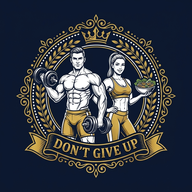
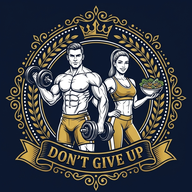
Add files via upload

diff --git a/app_completo.html b/app_completo.html
@@ -27,53 +27,53 @@
     
     <!-- Hero com Logo Oficial e Slogan -->
     <div class="pt-2 sm:pt-6 text-center">
-      <div class="relative inline-block mb-3">
-        <img src="./logo_emblema.jpg" alt="Logo FitApp Don't Give Up" 
-             class="w-48 h-48 sm:w-60 sm:h-60 md:w-72 md:h-72 mx-auto rounded-3xl md:rounded-[36px] shadow-2xl border-3 border-amber-400/50 object-cover">
-        <span class="absolute -bottom-2.5 left-1/2 -translate-x-1/2 bg-amber-500 text-slate-950 text-xs sm:text-sm font-black px-4 py-1 rounded-full shadow-lg tracking-wider uppercase whitespace-nowrap">
+      <div class="relative inline-block mb-4">
+        <img src="./logo_emblema.jpg?v=2" alt="Logo FitApp Don't Give Up" 
+             class="w-56 h-56 sm:w-72 sm:h-72 md:w-88 md:h-88 mx-auto rounded-3xl md:rounded-[40px] shadow-2xl border-4 border-amber-400/60 object-cover">
+        <span class="absolute -bottom-3 left-1/2 -translate-x-1/2 bg-amber-500 text-slate-950 text-xs sm:text-base font-black px-5 py-1.5 rounded-full shadow-xl tracking-wider uppercase whitespace-nowrap">
           Don't Give Up
         </span>
       </div>
 
-      <h1 class="text-2xl sm:text-3xl md:text-4xl font-black text-white tracking-tight mt-4">Treino & Nutrição</h1>
-      <p class="text-amber-400/90 text-xs sm:text-sm md:text-base font-extrabold tracking-widest mt-1.5 uppercase">Força, Disciplina e Combustível</p>
-      <p class="text-slate-300 text-xs sm:text-sm md:text-base mt-2 max-w-md mx-auto leading-relaxed">
+      <h1 class="text-2xl sm:text-4xl md:text-5xl font-black text-white tracking-tight mt-4">Treino & Nutrição</h1>
+      <p class="text-amber-400 text-sm sm:text-base md:text-lg font-black tracking-widest mt-1.5 uppercase">Força, Disciplina e Combustível</p>
+      <p class="text-slate-300 text-xs sm:text-sm md:text-base mt-2 max-w-lg mx-auto leading-relaxed">
         "O corpo é o resultado do treino. A comida é o combustível para vencer."
       </p>
     </div>
 
     <!-- Módulos de Entrada -->
-    <div class="space-y-4 sm:space-y-5 my-6 sm:my-8">
+    <div class="space-y-4 sm:space-y-6 my-6 sm:my-8">
       <button type="button" onclick="navegarPara('telaTreino')"
-              class="w-full text-left bg-gradient-to-br from-[#18284d] to-[#111c38] hover:from-[#213768] hover:to-[#162347] text-white p-5 sm:p-6 md:p-7 rounded-3xl md:rounded-[32px] shadow-2xl border border-blue-500/40 active:scale-98 transition-all flex items-center justify-between group">
-        <div class="flex items-center gap-4 sm:gap-5">
+              class="w-full text-left bg-gradient-to-br from-[#18284d] to-[#111c38] hover:from-[#213768] hover:to-[#162347] text-white p-5 sm:p-7 md:p-8 rounded-3xl md:rounded-[36px] shadow-2xl border-2 border-blue-500/40 active:scale-98 transition-all flex items-center justify-between group">
+        <div class="flex items-center gap-4 sm:gap-6">
           <div class="relative flex-shrink-0">
-            <img src="./icone_treino.jpg" alt="Controle de Treinos" 
-                 class="w-20 h-20 sm:w-24 sm:h-24 md:w-28 md:h-28 rounded-2xl md:rounded-3xl object-cover border-2 md:border-3 border-amber-400/70 shadow-2xl group-hover:scale-105 transition-transform">
-            <span class="absolute -bottom-1 -right-1 bg-blue-600 text-white text-xs sm:text-sm w-7 h-7 sm:w-8 sm:h-8 rounded-full flex items-center justify-center border-2 border-slate-900 shadow-md">🏋</span>
+            <img src="./icone_treino.jpg?v=2" alt="Controle de Treinos" 
+                 class="w-20 h-20 sm:w-28 sm:h-28 md:w-32 md:h-32 rounded-2xl md:rounded-3xl object-cover border-2 md:border-4 border-amber-400/80 shadow-2xl group-hover:scale-105 transition-transform">
+            <span class="absolute -bottom-1 -right-1 bg-blue-600 text-white text-xs sm:text-sm w-8 h-8 sm:w-9 sm:h-9 rounded-full flex items-center justify-center border-2 border-slate-900 shadow-md">🏋</span>
           </div>
           <div>
-            <h2 class="text-lg sm:text-xl md:text-2xl font-black text-white">Controle de Treinos</h2>
+            <h2 class="text-lg sm:text-2xl md:text-3xl font-black text-white">Controle de Treinos</h2>
             <p class="text-xs sm:text-sm md:text-base text-blue-200/90 mt-1">Treino A normal, B ondulatório, cronômetro e cargas</p>
           </div>
         </div>
-        <span class="text-2xl sm:text-3xl md:text-4xl text-blue-400 font-light pl-3 group-hover:translate-x-1.5 transition-transform">➔</span>
+        <span class="text-2xl sm:text-4xl text-blue-400 font-light pl-3 group-hover:translate-x-2 transition-transform">➔</span>
       </button>
 
       <button type="button" onclick="navegarPara('telaNutricao')"
-              class="w-full text-left bg-gradient-to-br from-[#0e2a22] to-[#111c38] hover:from-[#133a2f] hover:to-[#162347] text-white p-5 sm:p-6 md:p-7 rounded-3xl md:rounded-[32px] shadow-2xl border border-emerald-500/40 active:scale-98 transition-all flex items-center justify-between group">
-        <div class="flex items-center gap-4 sm:gap-5">
+              class="w-full text-left bg-gradient-to-br from-[#0e2a22] to-[#111c38] hover:from-[#133a2f] hover:to-[#162347] text-white p-5 sm:p-7 md:p-8 rounded-3xl md:rounded-[36px] shadow-2xl border-2 border-emerald-500/40 active:scale-98 transition-all flex items-center justify-between group">
+        <div class="flex items-center gap-4 sm:gap-6">
           <div class="relative flex-shrink-0">
-            <img src="./icone_nutricao.jpg" alt="Plano de Nutrição" 
-                 class="w-20 h-20 sm:w-24 sm:h-24 md:w-28 md:h-28 rounded-2xl md:rounded-3xl object-cover border-2 md:border-3 border-amber-400/70 shadow-2xl group-hover:scale-105 transition-transform">
-            <span class="absolute -bottom-1 -right-1 bg-emerald-600 text-white text-xs sm:text-sm w-7 h-7 sm:w-8 sm:h-8 rounded-full flex items-center justify-center border-2 border-slate-900 shadow-md">🥗</span>
+            <img src="./icone_nutricao.jpg?v=2" alt="Plano de Nutrição" 
+                 class="w-20 h-20 sm:w-28 sm:h-28 md:w-32 md:h-32 rounded-2xl md:rounded-3xl object-cover border-2 md:border-4 border-amber-400/80 shadow-2xl group-hover:scale-105 transition-transform">
+            <span class="absolute -bottom-1 -right-1 bg-emerald-600 text-white text-xs sm:text-sm w-8 h-8 sm:w-9 sm:h-9 rounded-full flex items-center justify-center border-2 border-slate-900 shadow-md">🥗</span>
           </div>
           <div>
-            <h2 class="text-lg sm:text-xl md:text-2xl font-black text-white">Plano de Nutrição</h2>
+            <h2 class="text-lg sm:text-2xl md:text-3xl font-black text-white">Plano de Nutrição</h2>
             <p class="text-xs sm:text-sm md:text-base text-emerald-200/90 mt-1">Diário alimentar, hidratação e refeições</p>
           </div>
         </div>
-        <span class="text-2xl sm:text-3xl md:text-4xl text-emerald-400 font-light pl-3 group-hover:translate-x-1.5 transition-transform">➔</span>
+        <span class="text-2xl sm:text-4xl text-emerald-400 font-light pl-3 group-hover:translate-x-2 transition-transform">➔</span>
       </button>
     </div>
 
@@ -99,7 +99,7 @@
           ⬅ Início
         </button>
         <div class="flex items-center gap-2">
-          <img src="./icone_treino.jpg" alt="Treino" class="w-12 h-12 sm:w-14 sm:h-14 rounded-2xl border-2 border-amber-400/60 object-cover shadow-lg">
+          <img src="./icone_treino.jpg?v=2" alt="Treino" class="w-12 h-12 sm:w-14 sm:h-14 rounded-2xl border-2 border-amber-400/60 object-cover shadow-lg">
           <div>
             <h1 class="text-lg md:text-xl font-black text-white leading-tight">Controle de Treinos</h1>
             <span class="text-[10px] text-amber-400 font-bold tracking-wider">DON'T GIVE UP</span>
@@ -219,7 +219,7 @@
         ⬅ Início
       </button>
       <div class="flex items-center gap-3">
-        <img src="./icone_nutricao.jpg" alt="Nutrição" class="w-12 h-12 sm:w-14 sm:h-14 rounded-2xl border-2 border-emerald-400/60 object-cover shadow-lg">
+        <img src="./icone_nutricao.jpg?v=2" alt="Nutrição" class="w-12 h-12 sm:w-14 sm:h-14 rounded-2xl border-2 border-emerald-400/60 object-cover shadow-lg">
         <div>
           <h1 class="text-lg sm:text-xl font-bold text-white">Plano de Nutrição</h1>
           <span class="text-[10px] sm:text-xs text-emerald-400 font-bold tracking-wider">COMBUSTÍVEL DIÁRIO</span>
@@ -612,6 +612,13 @@
     document.getElementById('dataHoje').textContent = `Data: ${hoje.toLocaleDateString('pt-BR')}`;
     carregarLocal();
     renderizarExercicios();
+
+    // Auto-atualização de cache para novas versões
+    if ('serviceWorker' in navigator) {
+      navigator.serviceWorker.register('./sw.js').then((reg) => {
+        reg.update();
+      });
+    }
   </script>
 </body>
 </html>

diff --git a/index.html b/index.html
@@ -27,53 +27,53 @@
     
     <!-- Hero com Logo Oficial e Slogan -->
     <div class="pt-2 sm:pt-6 text-center">
-      <div class="relative inline-block mb-3">
-        <img src="./logo_emblema.jpg" alt="Logo FitApp Don't Give Up" 
-             class="w-48 h-48 sm:w-60 sm:h-60 md:w-72 md:h-72 mx-auto rounded-3xl md:rounded-[36px] shadow-2xl border-3 border-amber-400/50 object-cover">
-        <span class="absolute -bottom-2.5 left-1/2 -translate-x-1/2 bg-amber-500 text-slate-950 text-xs sm:text-sm font-black px-4 py-1 rounded-full shadow-lg tracking-wider uppercase whitespace-nowrap">
+      <div class="relative inline-block mb-4">
+        <img src="./logo_emblema.jpg?v=2" alt="Logo FitApp Don't Give Up" 
+             class="w-56 h-56 sm:w-72 sm:h-72 md:w-88 md:h-88 mx-auto rounded-3xl md:rounded-[40px] shadow-2xl border-4 border-amber-400/60 object-cover">
+        <span class="absolute -bottom-3 left-1/2 -translate-x-1/2 bg-amber-500 text-slate-950 text-xs sm:text-base font-black px-5 py-1.5 rounded-full shadow-xl tracking-wider uppercase whitespace-nowrap">
           Don't Give Up
         </span>
       </div>
 
-      <h1 class="text-2xl sm:text-3xl md:text-4xl font-black text-white tracking-tight mt-4">Treino & Nutrição</h1>
-      <p class="text-amber-400/90 text-xs sm:text-sm md:text-base font-extrabold tracking-widest mt-1.5 uppercase">Força, Disciplina e Combustível</p>
-      <p class="text-slate-300 text-xs sm:text-sm md:text-base mt-2 max-w-md mx-auto leading-relaxed">
+      <h1 class="text-2xl sm:text-4xl md:text-5xl font-black text-white tracking-tight mt-4">Treino & Nutrição</h1>
+      <p class="text-amber-400 text-sm sm:text-base md:text-lg font-black tracking-widest mt-1.5 uppercase">Força, Disciplina e Combustível</p>
+      <p class="text-slate-300 text-xs sm:text-sm md:text-base mt-2 max-w-lg mx-auto leading-relaxed">
         "O corpo é o resultado do treino. A comida é o combustível para vencer."
       </p>
     </div>
 
     <!-- Módulos de Entrada -->
-    <div class="space-y-4 sm:space-y-5 my-6 sm:my-8">
+    <div class="space-y-4 sm:space-y-6 my-6 sm:my-8">
       <button type="button" onclick="navegarPara('telaTreino')"
-              class="w-full text-left bg-gradient-to-br from-[#18284d] to-[#111c38] hover:from-[#213768] hover:to-[#162347] text-white p-5 sm:p-6 md:p-7 rounded-3xl md:rounded-[32px] shadow-2xl border border-blue-500/40 active:scale-98 transition-all flex items-center justify-between group">
-        <div class="flex items-center gap-4 sm:gap-5">
+              class="w-full text-left bg-gradient-to-br from-[#18284d] to-[#111c38] hover:from-[#213768] hover:to-[#162347] text-white p-5 sm:p-7 md:p-8 rounded-3xl md:rounded-[36px] shadow-2xl border-2 border-blue-500/40 active:scale-98 transition-all flex items-center justify-between group">
+        <div class="flex items-center gap-4 sm:gap-6">
           <div class="relative flex-shrink-0">
-            <img src="./icone_treino.jpg" alt="Controle de Treinos" 
-                 class="w-20 h-20 sm:w-24 sm:h-24 md:w-28 md:h-28 rounded-2xl md:rounded-3xl object-cover border-2 md:border-3 border-amber-400/70 shadow-2xl group-hover:scale-105 transition-transform">
-            <span class="absolute -bottom-1 -right-1 bg-blue-600 text-white text-xs sm:text-sm w-7 h-7 sm:w-8 sm:h-8 rounded-full flex items-center justify-center border-2 border-slate-900 shadow-md">🏋</span>
+            <img src="./icone_treino.jpg?v=2" alt="Controle de Treinos" 
+                 class="w-20 h-20 sm:w-28 sm:h-28 md:w-32 md:h-32 rounded-2xl md:rounded-3xl object-cover border-2 md:border-4 border-amber-400/80 shadow-2xl group-hover:scale-105 transition-transform">
+            <span class="absolute -bottom-1 -right-1 bg-blue-600 text-white text-xs sm:text-sm w-8 h-8 sm:w-9 sm:h-9 rounded-full flex items-center justify-center border-2 border-slate-900 shadow-md">🏋</span>
           </div>
           <div>
-            <h2 class="text-lg sm:text-xl md:text-2xl font-black text-white">Controle de Treinos</h2>
+            <h2 class="text-lg sm:text-2xl md:text-3xl font-black text-white">Controle de Treinos</h2>
             <p class="text-xs sm:text-sm md:text-base text-blue-200/90 mt-1">Treino A normal, B ondulatório, cronômetro e cargas</p>
           </div>
         </div>
-        <span class="text-2xl sm:text-3xl md:text-4xl text-blue-400 font-light pl-3 group-hover:translate-x-1.5 transition-transform">➔</span>
+        <span class="text-2xl sm:text-4xl text-blue-400 font-light pl-3 group-hover:translate-x-2 transition-transform">➔</span>
       </button>
 
       <button type="button" onclick="navegarPara('telaNutricao')"
-              class="w-full text-left bg-gradient-to-br from-[#0e2a22] to-[#111c38] hover:from-[#133a2f] hover:to-[#162347] text-white p-5 sm:p-6 md:p-7 rounded-3xl md:rounded-[32px] shadow-2xl border border-emerald-500/40 active:scale-98 transition-all flex items-center justify-between group">
-        <div class="flex items-center gap-4 sm:gap-5">
+              class="w-full text-left bg-gradient-to-br from-[#0e2a22] to-[#111c38] hover:from-[#133a2f] hover:to-[#162347] text-white p-5 sm:p-7 md:p-8 rounded-3xl md:rounded-[36px] shadow-2xl border-2 border-emerald-500/40 active:scale-98 transition-all flex items-center justify-between group">
+        <div class="flex items-center gap-4 sm:gap-6">
           <div class="relative flex-shrink-0">
-            <img src="./icone_nutricao.jpg" alt="Plano de Nutrição" 
-                 class="w-20 h-20 sm:w-24 sm:h-24 md:w-28 md:h-28 rounded-2xl md:rounded-3xl object-cover border-2 md:border-3 border-amber-400/70 shadow-2xl group-hover:scale-105 transition-transform">
-            <span class="absolute -bottom-1 -right-1 bg-emerald-600 text-white text-xs sm:text-sm w-7 h-7 sm:w-8 sm:h-8 rounded-full flex items-center justify-center border-2 border-slate-900 shadow-md">🥗</span>
+            <img src="./icone_nutricao.jpg?v=2" alt="Plano de Nutrição" 
+                 class="w-20 h-20 sm:w-28 sm:h-28 md:w-32 md:h-32 rounded-2xl md:rounded-3xl object-cover border-2 md:border-4 border-amber-400/80 shadow-2xl group-hover:scale-105 transition-transform">
+            <span class="absolute -bottom-1 -right-1 bg-emerald-600 text-white text-xs sm:text-sm w-8 h-8 sm:w-9 sm:h-9 rounded-full flex items-center justify-center border-2 border-slate-900 shadow-md">🥗</span>
           </div>
           <div>
-            <h2 class="text-lg sm:text-xl md:text-2xl font-black text-white">Plano de Nutrição</h2>
+            <h2 class="text-lg sm:text-2xl md:text-3xl font-black text-white">Plano de Nutrição</h2>
             <p class="text-xs sm:text-sm md:text-base text-emerald-200/90 mt-1">Diário alimentar, hidratação e refeições</p>
           </div>
         </div>
-        <span class="text-2xl sm:text-3xl md:text-4xl text-emerald-400 font-light pl-3 group-hover:translate-x-1.5 transition-transform">➔</span>
+        <span class="text-2xl sm:text-4xl text-emerald-400 font-light pl-3 group-hover:translate-x-2 transition-transform">➔</span>
       </button>
     </div>
 
@@ -99,7 +99,7 @@
           ⬅ Início
         </button>
         <div class="flex items-center gap-2">
-          <img src="./icone_treino.jpg" alt="Treino" class="w-12 h-12 sm:w-14 sm:h-14 rounded-2xl border-2 border-amber-400/60 object-cover shadow-lg">
+          <img src="./icone_treino.jpg?v=2" alt="Treino" class="w-12 h-12 sm:w-14 sm:h-14 rounded-2xl border-2 border-amber-400/60 object-cover shadow-lg">
           <div>
             <h1 class="text-lg md:text-xl font-black text-white leading-tight">Controle de Treinos</h1>
             <span class="text-[10px] text-amber-400 font-bold tracking-wider">DON'T GIVE UP</span>
@@ -219,7 +219,7 @@
         ⬅ Início
       </button>
       <div class="flex items-center gap-3">
-        <img src="./icone_nutricao.jpg" alt="Nutrição" class="w-12 h-12 sm:w-14 sm:h-14 rounded-2xl border-2 border-emerald-400/60 object-cover shadow-lg">
+        <img src="./icone_nutricao.jpg?v=2" alt="Nutrição" class="w-12 h-12 sm:w-14 sm:h-14 rounded-2xl border-2 border-emerald-400/60 object-cover shadow-lg">
         <div>
           <h1 class="text-lg sm:text-xl font-bold text-white">Plano de Nutrição</h1>
           <span class="text-[10px] sm:text-xs text-emerald-400 font-bold tracking-wider">COMBUSTÍVEL DIÁRIO</span>
@@ -612,6 +612,13 @@
     document.getElementById('dataHoje').textContent = `Data: ${hoje.toLocaleDateString('pt-BR')}`;
     carregarLocal();
     renderizarExercicios();
+
+    // Auto-atualização de cache para novas versões
+    if ('serviceWorker' in navigator) {
+      navigator.serviceWorker.register('./sw.js').then((reg) => {
+        reg.update();
+      });
+    }
   </script>
 </body>
 </html>

diff --git a/sw.js b/sw.js
@@ -1,19 +1,33 @@
-const CACHE_NAME = 'fitapp-cache-v1';
-const ASSETS = [
-  './app_completo.html',
-  './manifest.json',
-  'https://cdn.tailwindcss.com'
-];
+const CACHE_NAME = 'fitapp-cache-v2';
 
 self.addEventListener('install', (e) => {
-  e.waitUntil(
-    caches.open(CACHE_NAME).then((cache) => cache.addAll(ASSETS))
-  );
   self.skipWaiting();
 });
 
+self.addEventListener('activate', (e) => {
+  e.waitUntil(
+    caches.keys().then((keys) => {
+      return Promise.all(
+        keys.map((key) => {
+          if (key !== CACHE_NAME) {
+            return caches.delete(key);
+          }
+        })
+      );
+    })
+  );
+  return self.clients.claim();
+});
+
+// Estratégia Network-First: Sempre busca a versão mais recente na Vercel!
 self.addEventListener('fetch', (e) => {
   e.respondWith(
-    caches.match(e.request).then((res) => res || fetch(e.request))
+    fetch(e.request)
+      .then((res) => {
+        const resClone = res.clone();
+        caches.open(CACHE_NAME).then((cache) => cache.put(e.request, resClone));
+        return res;
+      })
+      .catch(() => caches.match(e.request))
   );
 });
